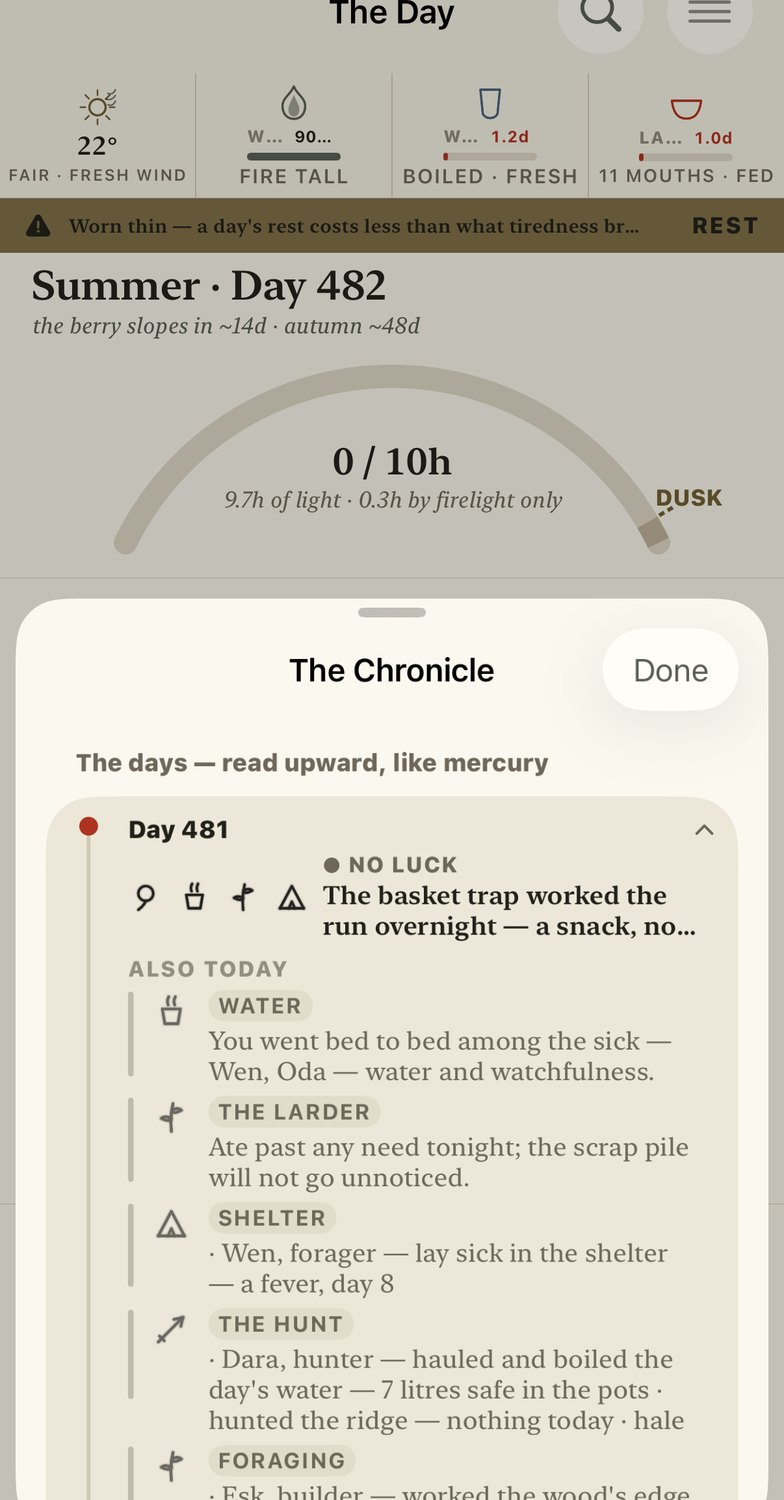
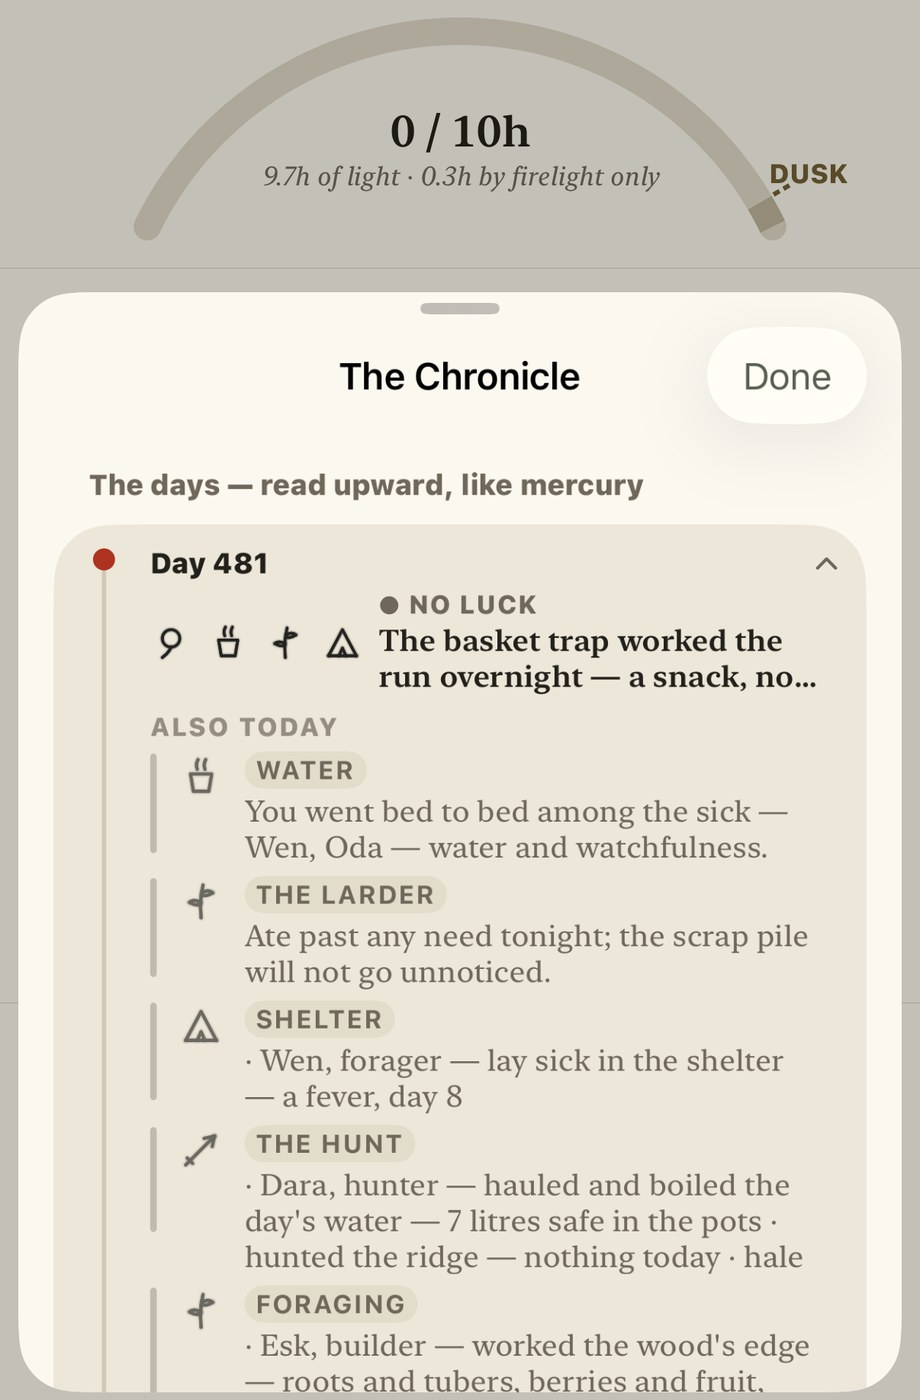
Two hundred and twenty-one, and a hundred and nine of them stand up
The site claimed a hundred and sixty-four crafts (owner: 'are there really 160 crafts? i
thought there were more, we should include structures'). It was counting tech-tree nodes
and leaving the buildings out. The catalogue holds 221 things a keeper can actually do,
and 109 of those are structures — sited on the plan, damaged, repaired, upgraded, each one
changing the arithmetic of a night. The page says both numbers now.

The chronicle picture is also reshot and recropped to the reading itself, rather than to
the Day tab sitting above it.

diff --git a/index.html b/index.html
@@ -296,7 +296,7 @@
           leaning, someone they walked in with, and somewhere to sleep.</p></figcaption>
       </figure>
       <figure class="reveal">
-        <img src="/chronicle.jpg" width="784" height="1500" loading="lazy"
+        <img src="/chronicle.jpg" width="1206" height="1836" loading="lazy"
              alt="The Chronicle: a day's events written out as they happened">
         <figcaption><h3>The Chronicle</h3><p>A life, written as it was lived. Not a save file — a
           record, in the order the days actually fell.</p></figcaption>
@@ -340,10 +340,14 @@
          alt="The ages: a tech tree of crafts by age, from hand and stone onward">
     <div>
       <p class="eyebrow">The ages</p>
-      <h2>A hundred and sixty-four crafts, and the reasons between them</h2>
+      <h2>Two hundred and twenty-one things to make, and the reasons between them</h2>
       <p>Every craft in the game is a real one, in the order history actually found it. You cannot
         fire brick without a kiln, cannot melt copper without forced air, cannot force air without
         something to force it with.</p>
+      <p>A hundred and nine of them are STRUCTURES — things that stand on the ground and stay
+        there. A fire pit, a drying rack, a smoke house, a well, a kiln, a byre, a wall, a gate,
+        a forge. They are sited on the plan, they take damage, they are repaired and upgraded,
+        and every one of them changes the arithmetic of a night.</p>
       <p>Nothing unlocks on a timer. Things become possible because you made the thing before them.</p>
     </div>
   </div>
